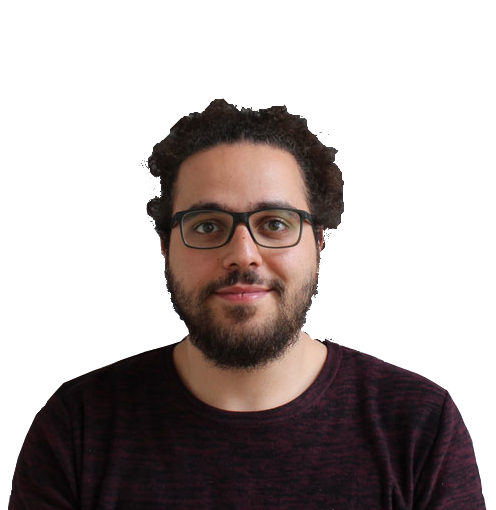
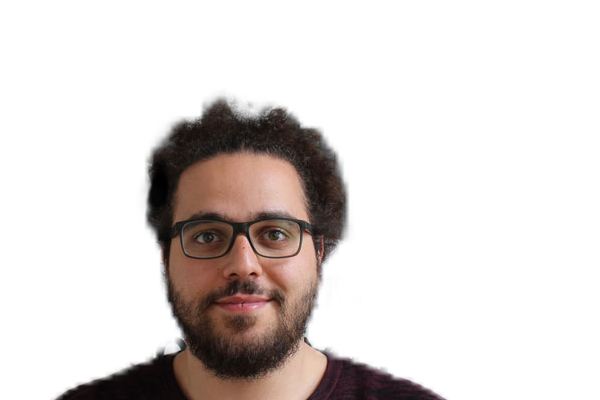
pizza

diff --git a/basiccode.html b/basiccode.html
@@ -9,6 +9,7 @@
     <link rel="stylesheet" href="css/pizza.css">
     <link href="https://fonts.googleapis.com/css?family=Gugi" rel="stylesheet">
     <link rel="stylesheet" href="https://use.fontawesome.com/releases/v5.0.10/css/all.css" integrity="sha384-+d0P83n9kaQMCwj8F4RJB66tzIwOKmrdb46+porD/OvrJ+37WqIM7UoBtwHO6Nlg" crossorigin="anonymous">
+    <link href="https://fonts.googleapis.com/css?family=Cookie" rel="stylesheet">
 </head>
 
 <body>
@@ -36,29 +37,29 @@
           <img class="nutri" src="./img/cheesepizza ntritions .png" alt="Nutritions">
         </div>
         <div class="dennispapi">
-          <h3 class="heading">Denis's Papi</h3>
+          <h3 class="heading">Denis' Papi</h3>
           <img id="den" class="samesize" src="./img/dennis.jpg" alt="Just imagine Dennis with an italian beard haha">
-          <p id="papitext">Lorem ipsum dolor sit amet, consectetur adipisicing elit, sed do eiusmod tempor incididunt ut labore et dolore magna aliqua.
-          Ut enim ad minim veniam, quis nostrud exercitation ullamco laboris nisi ut aliquip ex ea commodo consequat.
-          Duis aute irure dolor in reprehenderit in voluptate velit esse cillum dolore eu fugiat nulla pariatur.
-          Excepteur sint occaecat cupidatat non proident, sunt in culpa qui officia deserunt mollit anim id est laborum.</p>
+          <p id="papitext">Can you imagine a pizza so good that people who have eaten it have enjoyed it so much that they can’t stand to be without it? <br>
+          <br>
+
+          The recipe for Denis' famous pizza is one that has evolved over 200 years. Its creation started in a small Italian village near Milano. Mama Schuele was famous all over Italy for her exquisite cooking. Years later, her great-grandson Denis decided to share his family's secrets with other parts of the world. The rest is history you can still taste today, along with our other great starters, fresh salads, outstanding pastas and unique tramezzini.</p>
         </div>
         <div class="masterpiece">
           <div class="ingredients">
             <div id="cheese" value="123" class="dragzone" draggable="true" ondragstart="dragStart(event)" ondragend="cheese2()">
-              <img class="samesize" src="./img/cheese.jpg" alt="" draggable="true" ondragstart="dragStart(event)">
+              <img class="samesize" src="./img/cheese.png" alt="" draggable="true" ondragstart="dragStart(event)">
               <h3>Cheese</h3>
             </div>
             <div id="ham" value="85" class="dragzone" draggable="true" ondragstart="dragStart(event)" ondragend="ham2()">
-              <img  class="samesize" src="./img/ham.jpg" alt="" draggable="true" ondragstart="dragStart(event)">
+              <img  class="samesize" src="./img/ham.png" alt="" draggable="true" ondragstart="dragStart(event)">
               <h3>Ham</h3>
             </div>
             <div id="salami" value="166" class="dragzone" draggable="true" ondragstart="dragStart(event)" ondragend="salami2()">
-              <img class="samesize" src="./img/salami.jpg" alt="" draggable="true" ondragstart="dragStart(event)">
+              <img class="samesize" src="./img/salami.png" alt="" draggable="true" ondragstart="dragStart(event)">
               <h3>Salami</h3>
             </div>
             <div id="corn" value="75" class="dragzone" draggable="true" ondragstart="dragStart(event)" ondragend="corn2()">
-              <img class="samesize" src="./img/corn.jpg" alt="" draggable="true" ondragstart="dragStart(event)">
+              <img class="samesize" src="./img/corn.png" alt="" draggable="true" ondragstart="dragStart(event)">
               <h3>Corn</h3>
             </div>
           </div>

diff --git a/css/pizza.css b/css/pizza.css
@@ -227,7 +227,7 @@ footer {
 
 #den {
   border-radius: 50%;
-  margin-left: 5%; }
+  margin-left: 25%; }
 
 .dennispapi {
   background-color: rgba(192, 185, 185, 0.5);
@@ -235,8 +235,11 @@ footer {
 
 #papitext {
   width: 30%;
+  margin-top: 3%;
+  margin-right: 20%;
   float: right;
-  margin-top: 5%; }
+  font-family: Cookie, cursive;
+  font-size: 1.1em; }
 
 h3 {
   text-align: center;

diff --git a/sass/pizza.sass b/sass/pizza.sass
@@ -28,7 +28,7 @@
 
 #den
   border-radius: 50%
-  margin-left: 5%
+  margin-left: 25%
 
 
 
@@ -39,9 +39,11 @@
 
 #papitext
   width: 30%
-
+  margin-top: 3%
+  margin-right: 20%
   float: right
-  margin-top: 5%
+  font-family: Cookie, cursive
+  font-size: 1.1em
 
 h3
   text-align: center
